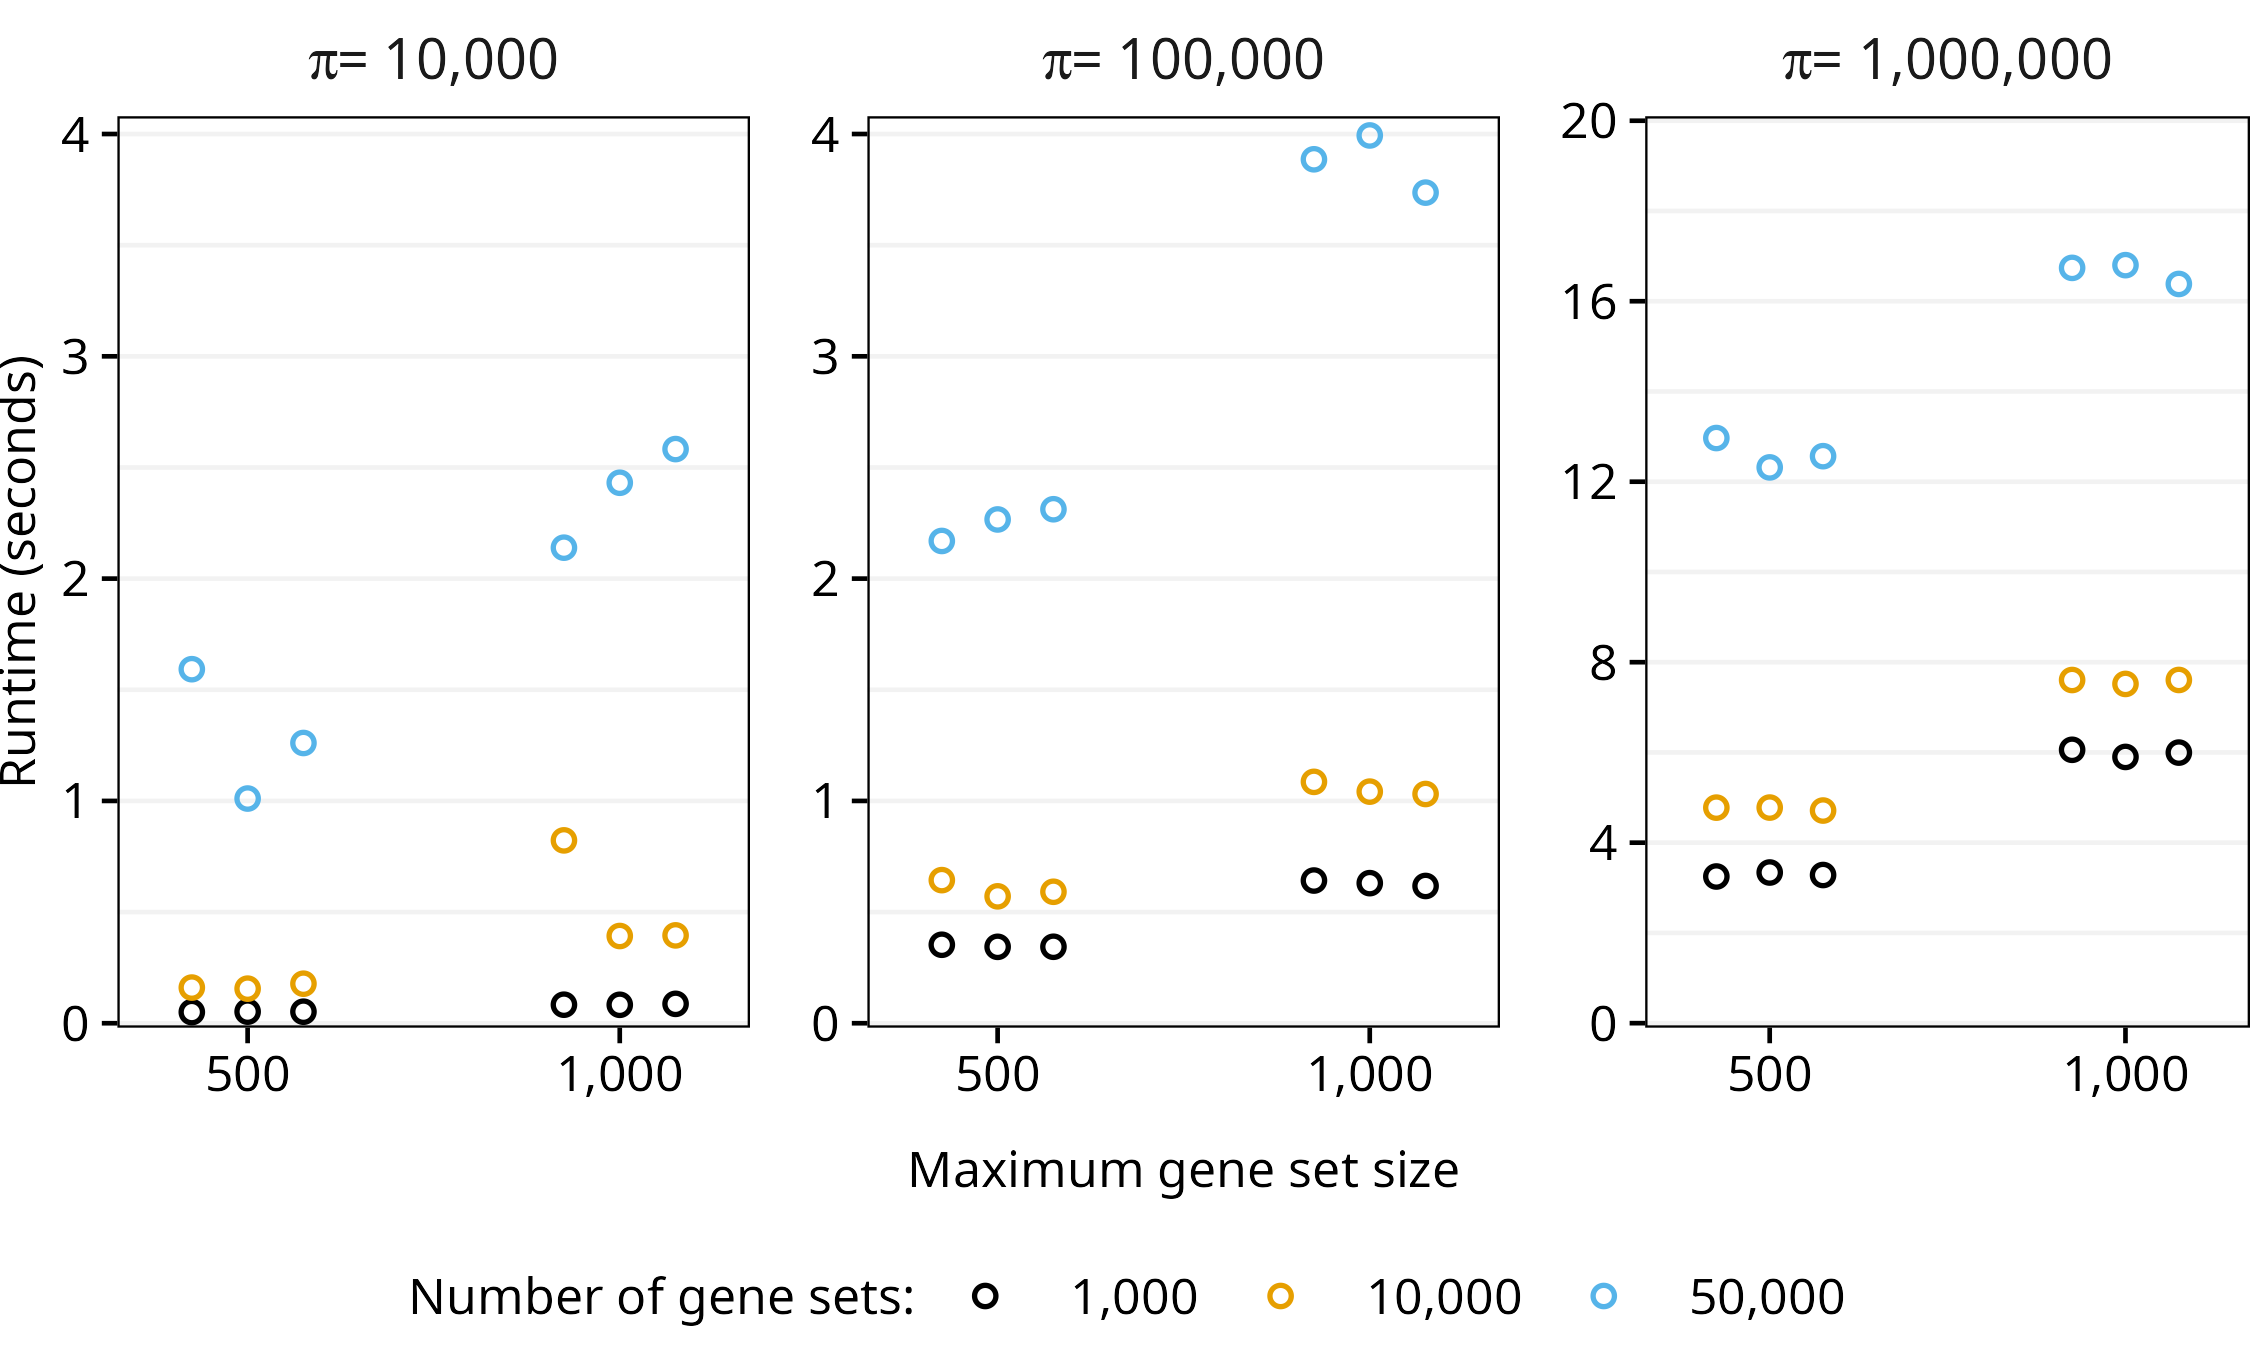
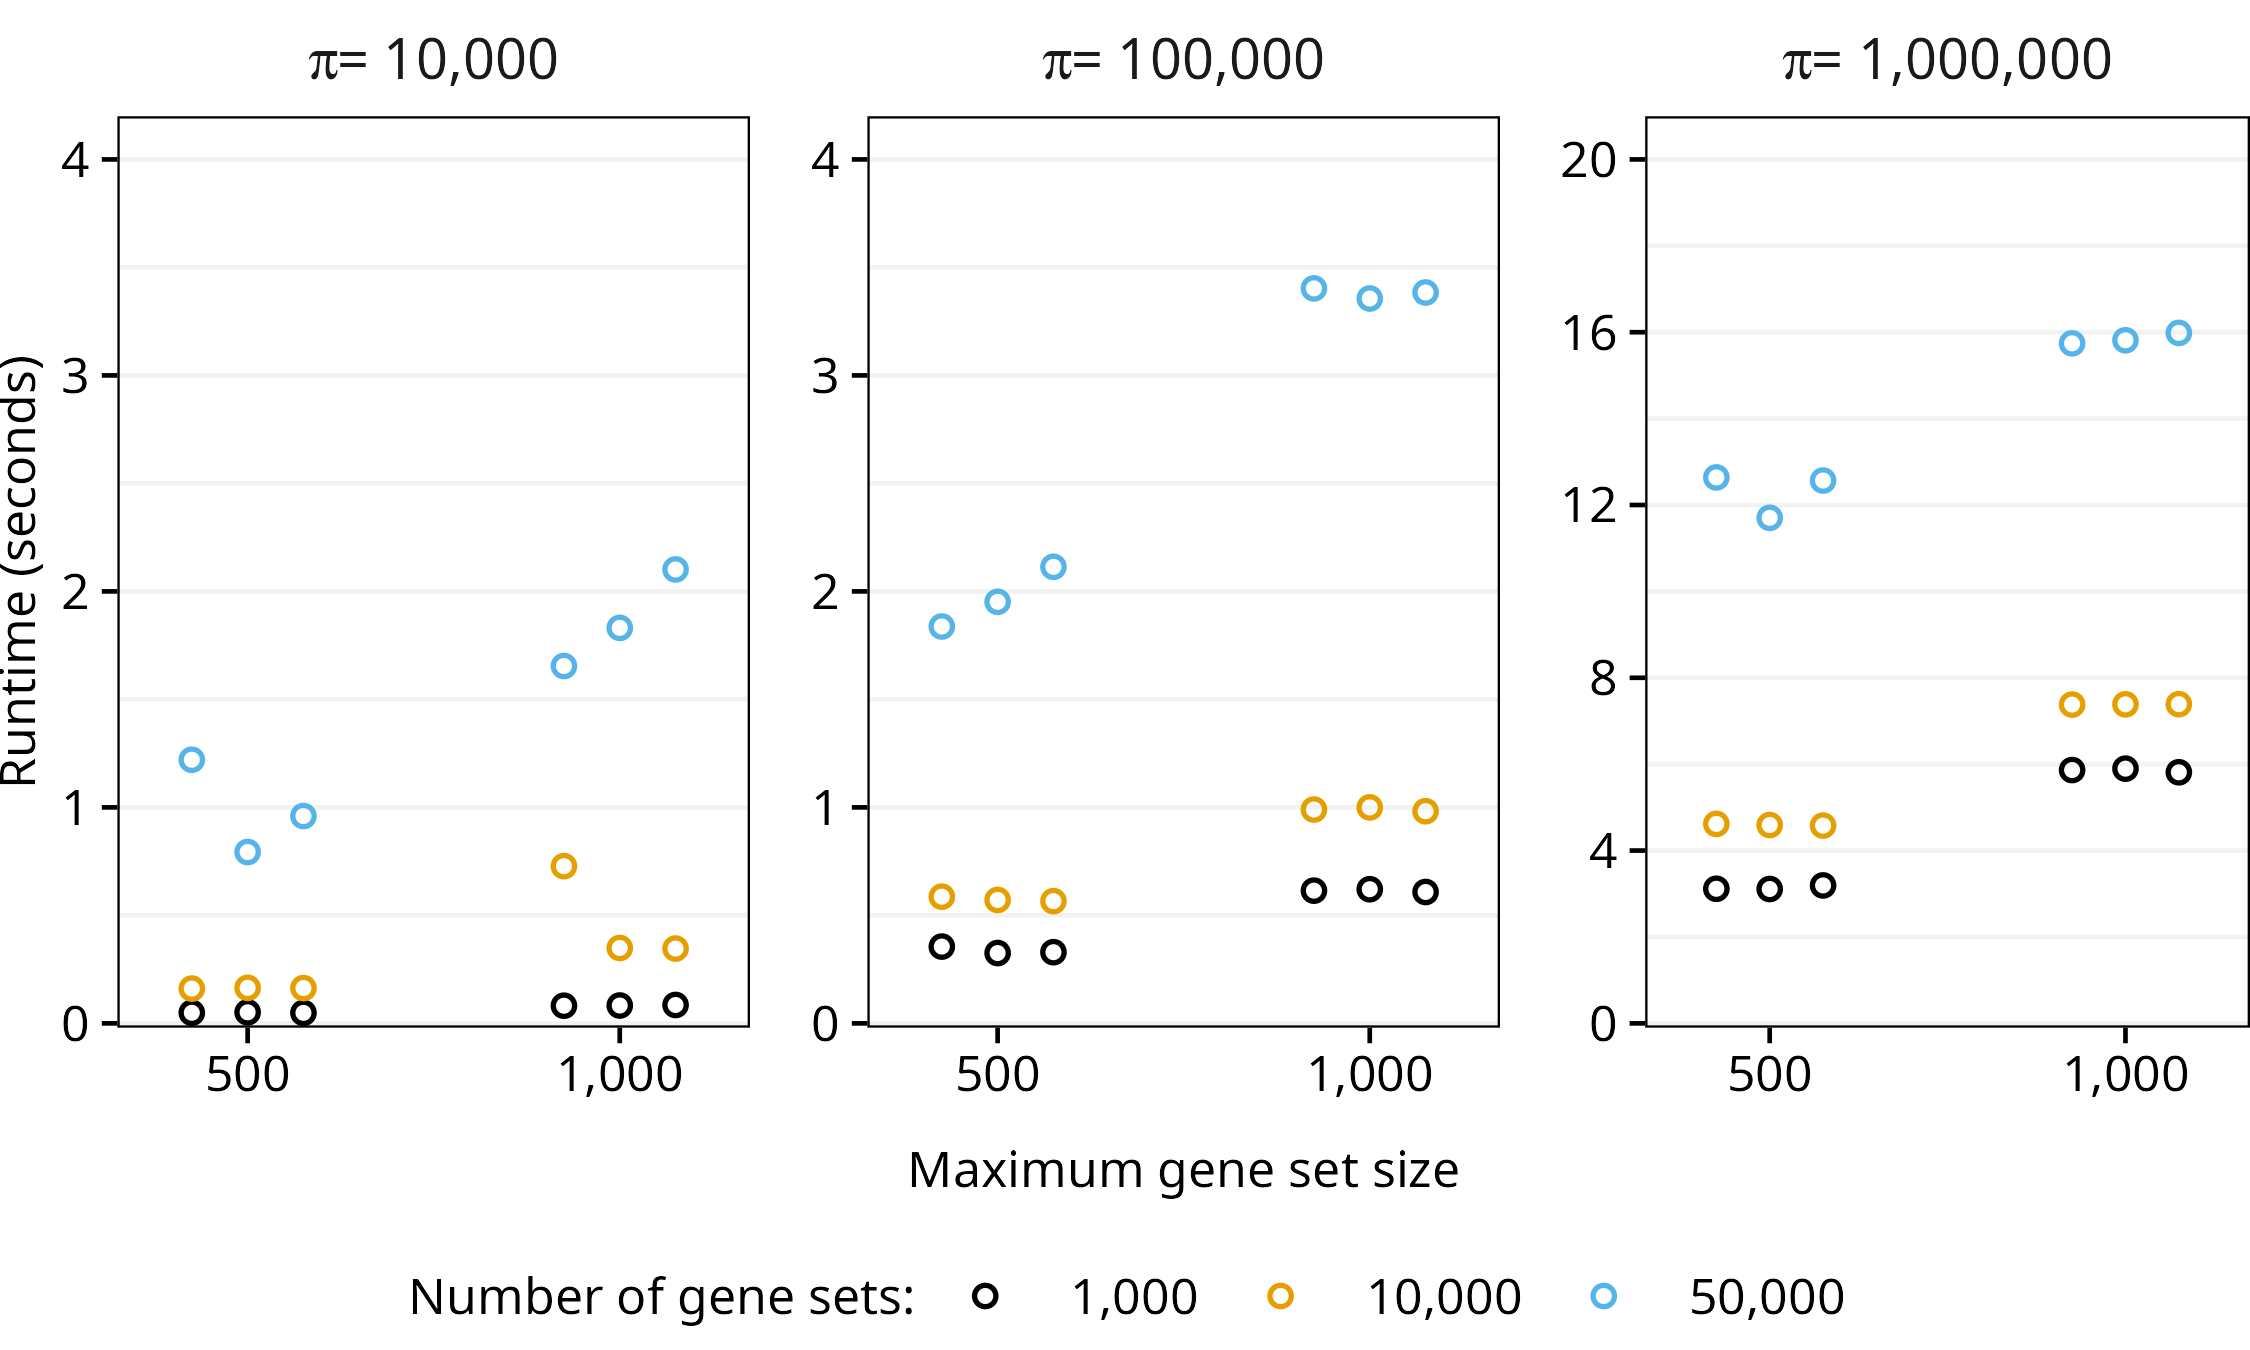
Improve incidence matrix creation
Improve speed and reduce memory usage when converting a named list of gene sets to a sparse incidence matrix.

diff --git a/src/RcppExports.cpp b/src/RcppExports.cpp
@@ -11,6 +11,20 @@ Rcpp::Rostream<true>&  Rcpp::Rcout = Rcpp::Rcpp_cout_get();
 Rcpp::Rostream<false>& Rcpp::Rcerr = Rcpp::Rcpp_cerr_get();
 #endif
 
+// unsafe_sparseMatrix
+SEXP unsafe_sparseMatrix(IntegerVector& i, const IntegerVector& j, const IntegerVector dims, const List& dimnames);
+RcppExport SEXP _fast_ssgsea_unsafe_sparseMatrix(SEXP iSEXP, SEXP jSEXP, SEXP dimsSEXP, SEXP dimnamesSEXP) {
+BEGIN_RCPP
+    Rcpp::RObject rcpp_result_gen;
+    Rcpp::RNGScope rcpp_rngScope_gen;
+    Rcpp::traits::input_parameter< IntegerVector& >::type i(iSEXP);
+    Rcpp::traits::input_parameter< const IntegerVector& >::type j(jSEXP);
+    Rcpp::traits::input_parameter< const IntegerVector >::type dims(dimsSEXP);
+    Rcpp::traits::input_parameter< const List& >::type dimnames(dimnamesSEXP);
+    rcpp_result_gen = Rcpp::wrap(unsafe_sparseMatrix(i, j, dims, dimnames));
+    return rcpp_result_gen;
+END_RCPP
+}
 // matmult_sparse
 arma::mat matmult_sparse(const arma::mat& X, const arma::sp_mat& Y);
 RcppExport SEXP _fast_ssgsea_matmult_sparse(SEXP XSEXP, SEXP YSEXP) {
@@ -91,11 +105,17 @@ BEGIN_RCPP
 END_RCPP
 }
 
+RcppExport SEXP _C_pairs_not_duplicated(SEXP, SEXP);
+RcppExport SEXP _C_rep_int(SEXP);
+
 static const R_CallMethodDef CallEntries[] = {
+    {"_fast_ssgsea_unsafe_sparseMatrix", (DL_FUNC) &_fast_ssgsea_unsafe_sparseMatrix, 4},
     {"_fast_ssgsea_matmult_sparse", (DL_FUNC) &_fast_ssgsea_matmult_sparse, 2},
     {"_fast_ssgsea_calcES", (DL_FUNC) &_fast_ssgsea_calcES, 7},
     {"_fast_ssgsea_calc_ES_perm", (DL_FUNC) &_fast_ssgsea_calc_ES_perm, 14},
     {"_fast_ssgsea_calc_ES_perm_dir", (DL_FUNC) &_fast_ssgsea_calc_ES_perm_dir, 18},
+    {"_C_pairs_not_duplicated", (DL_FUNC) &_C_pairs_not_duplicated, 2},
+    {"_C_rep_int",              (DL_FUNC) &_C_rep_int,              1},
     {NULL, NULL, 0}
 };
 

diff --git a/src/C_functions.c b/src/C_functions.c
@@ -3,6 +3,89 @@
 #include <Rinternals.h>
 
 
+SEXP _C_rep_int(SEXP times) {
+  const int *restrict ptimes = INTEGER(times);
+
+  const int n_times = Rf_length(times);
+
+  int n = 0;
+
+  for (int i = 0; i < n_times; ++i) {
+    n += ptimes[i];
+  }
+
+  SEXP out = PROTECT(Rf_allocVector(INTSXP, n));
+  int *restrict pout = INTEGER(out);
+
+  int val = 0;
+  int start = 0;
+  int end = 0;
+
+  for (int i = 0; i < n_times; ++i) {
+    ++val;
+    start = end;
+    end = start + ptimes[i];
+
+    for (int j = start; j < end; ++j) {
+      pout[j] = val;
+    }
+  }
+
+  UNPROTECT(1);
+
+  return out;
+}
+
+
+SEXP _C_pairs_not_duplicated(SEXP x, SEXP y) {
+  const int N = Rf_length(x);
+
+  if (N == 0) {
+    return R_NilValue;
+  }
+
+  if (N == 1) {
+    return Rf_ScalarInteger(1);
+  }
+
+  const int *restrict px = INTEGER(x);
+  const int *restrict py = INTEGER(y);
+
+  SEXP temp = PROTECT(Rf_allocVector(INTSXP, N));
+  int *restrict ptemp = INTEGER(temp);
+
+  ptemp[0] = 1; // the first pair is not a duplicate, by definition
+
+  int n_unique = 1;
+
+  // Due to how x and y are sorted, duplicate pairs will be contiguous
+  for (int i = 1; i < N; ++i) {
+    if (!((px[i] == px[i - 1]) & (py[i] == py[i - 1]))) { // not duplicated
+      ptemp[n_unique] = i + 1;
+      ++n_unique;
+    }
+  }
+
+  if (n_unique == N) {
+    UNPROTECT(1);
+
+    return temp;
+  }
+
+  // Subset to the first n_unique elements (indices of non-duplicate pairs)
+  SEXP out = PROTECT(Rf_allocVector(INTSXP, n_unique));
+  int *restrict pout = INTEGER(out);
+
+  for (int i = 0; i < n_unique; ++i) {
+    pout[i] = ptemp[i];
+  }
+
+  UNPROTECT(2);
+
+  return out;
+}
+
+
 /*
  * See Rcpp_functions.cpp for documentation.
  */

diff --git a/src/Rcpp_functions.cpp b/src/Rcpp_functions.cpp
@@ -5,6 +5,44 @@
 using namespace Rcpp;
 
 
+// [[Rcpp::export(.Cpp_unsafe_sparseMatrix)]]
+SEXP unsafe_sparseMatrix(IntegerVector& i,
+                         const IntegerVector& j,
+                         const IntegerVector dims,
+                         const List& dimnames) {
+  // j is sorted and i is sorted within j. Duplicate (i, j) pairs not allowed.
+  const int N = i.size();
+  const int NCOL = dims[1];
+
+  // Row indices need to be 0-based
+  for (int k = 0; k < N; ++k) {
+    --i[k];
+  }
+
+  // Column pointers
+  IntegerVector p(NCOL + 1, 0);
+
+  for (int k = 0; k < N; ++k) {
+    const int col = j[k];
+    ++p[col]; // column sums
+  }
+
+  for (int col = 0; col < NCOL; ++col) {
+    p[col + 1] += p[col]; // cumulative sum
+  }
+
+  // Create a dgCMatrix
+  S4 out("dgCMatrix");
+  out.slot("i") = i;
+  out.slot("p") = p;
+  out.slot("x") = NumericVector(N, 1.0);
+  out.slot("Dim") = dims;
+  out.slot("Dimnames") = dimnames;
+
+  return out;
+}
+
+
 //' @title Dense-Sparse Matrix Multiplication
 //'
 //' @description Multiply a dense matrix by a sparse matrix.
